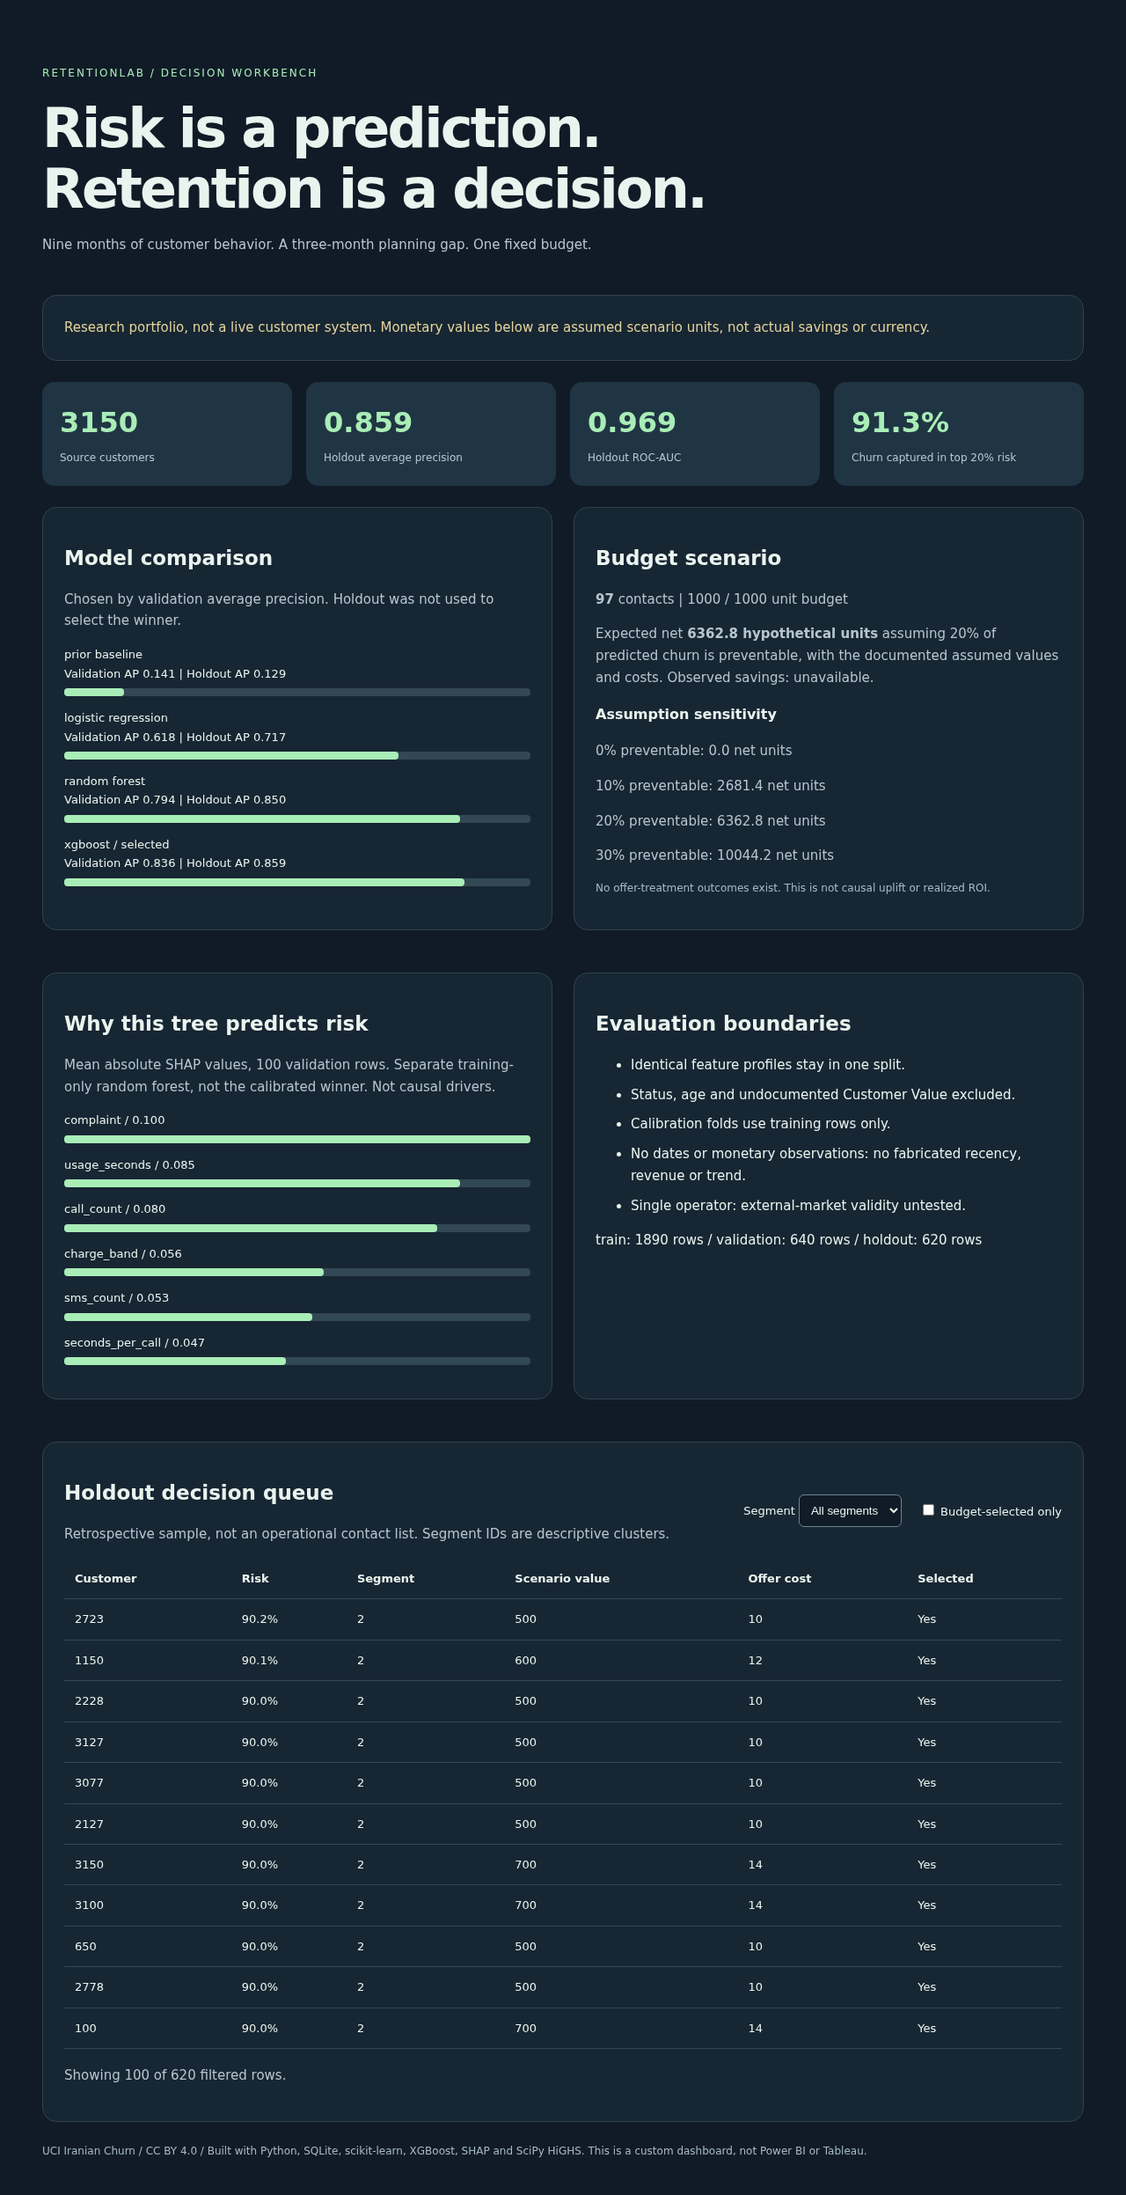
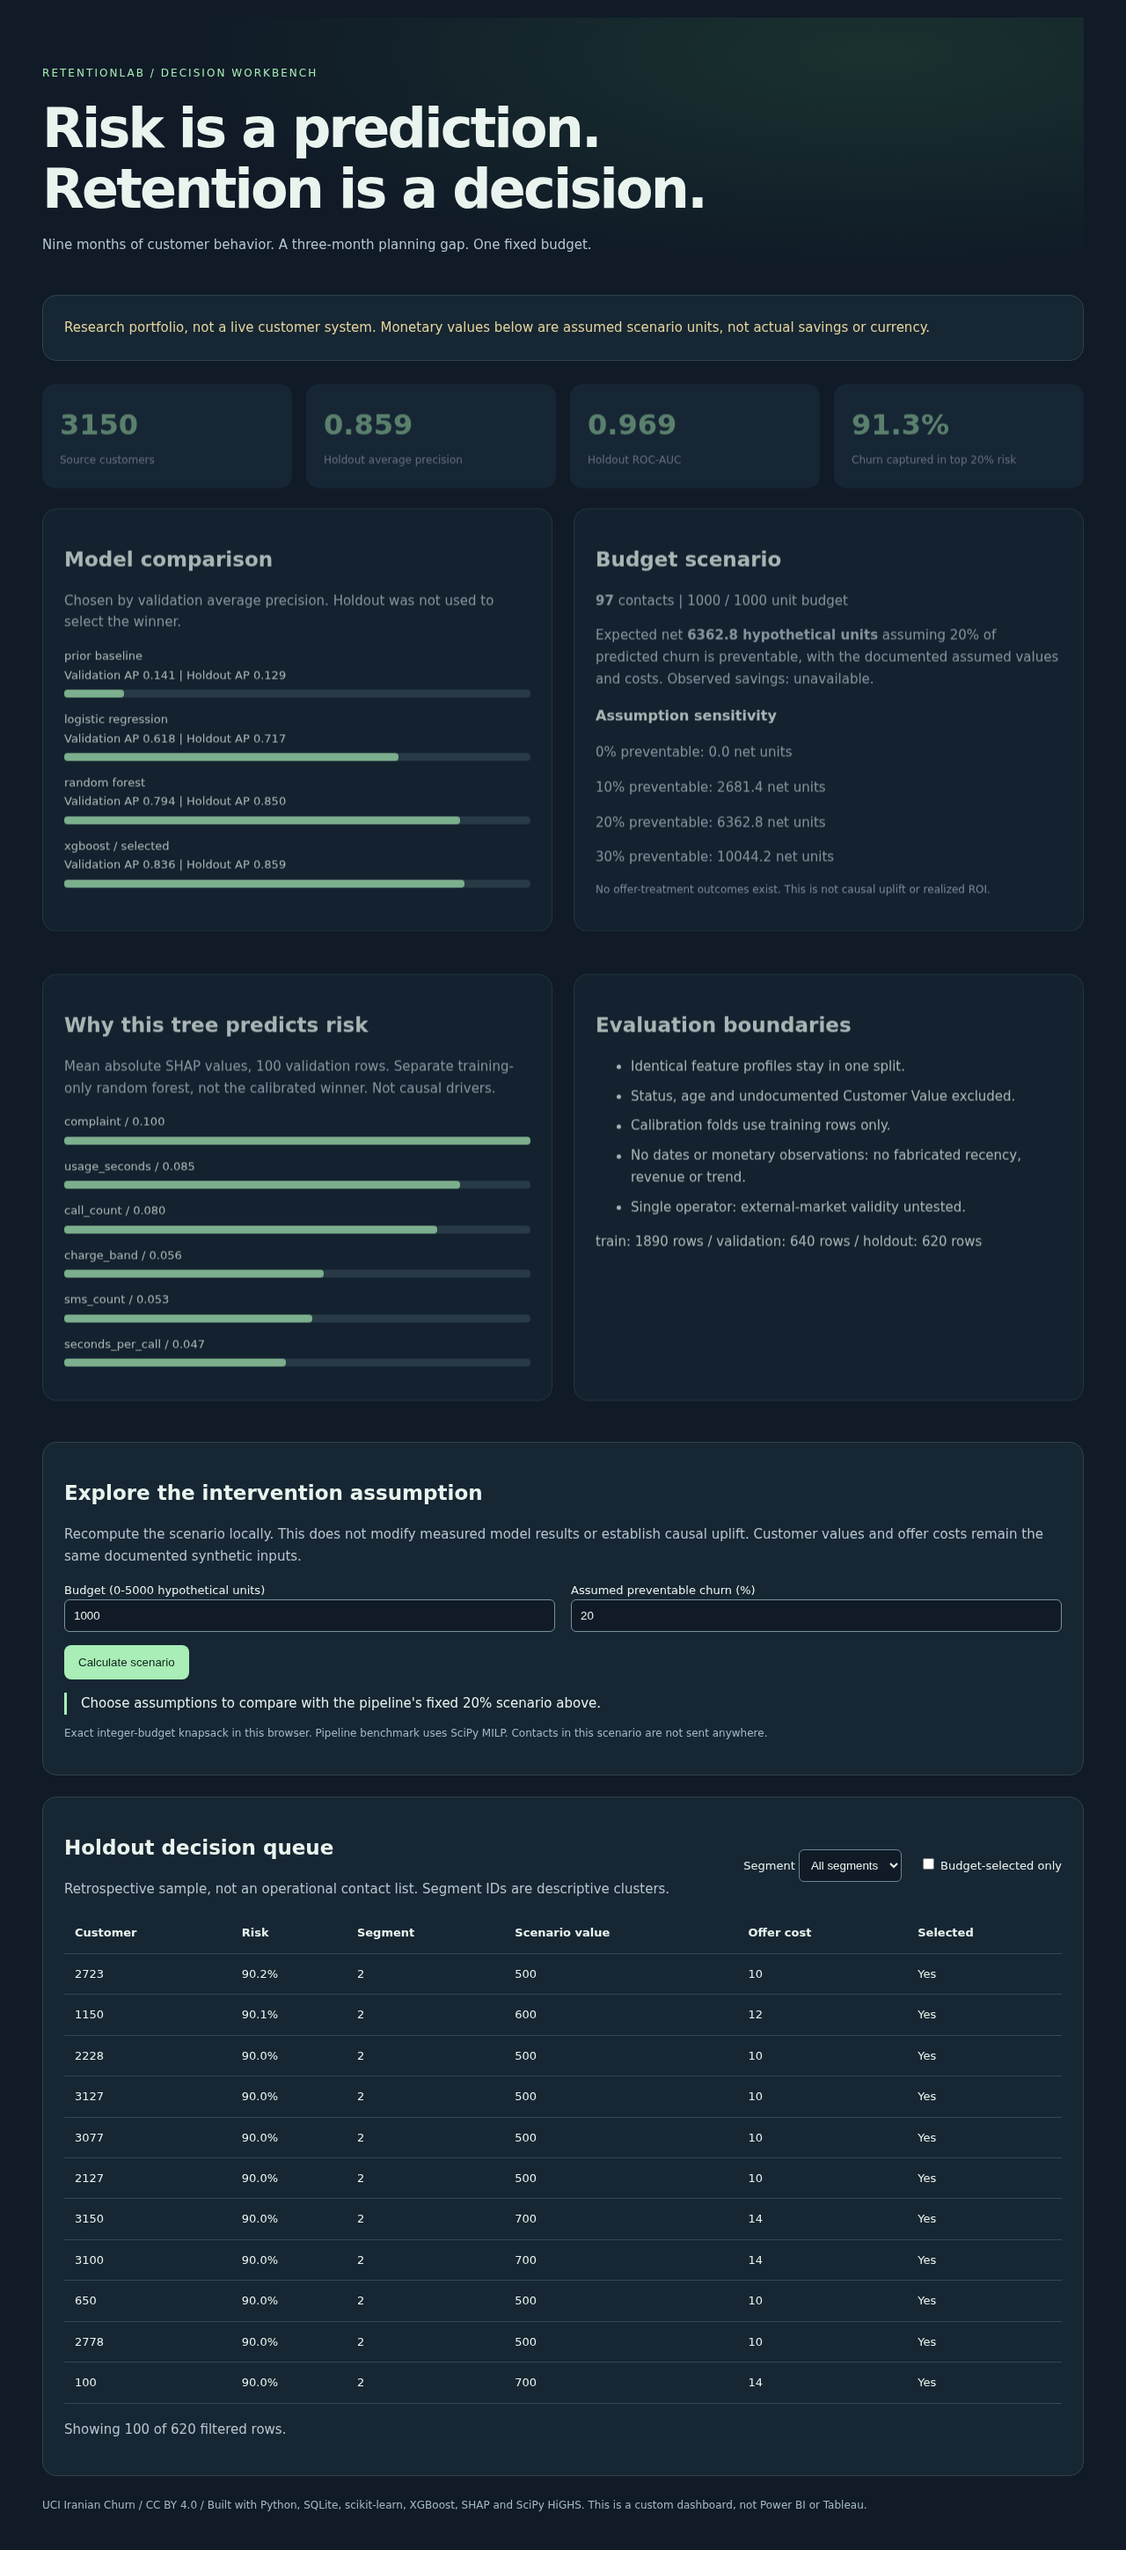
Add tested interactive retention scenario explorer

diff --git a/dashboard/app.js b/dashboard/app.js
@@ -1,1 +1,2 @@
-const fmt=(x,n=3)=>Number(x).toFixed(n);Promise.all([fetch('../artifacts/results.json').then(r=>r.json()),fetch('../artifacts/queue.json').then(r=>r.json())]).then(([r,rows])=>{const m=r.models[r.selected_model].holdout;document.querySelector('#kpis').innerHTML=[[r.rows,'Source customers'],[fmt(m.average_precision),'Holdout average precision'],[fmt(m.roc_auc),'Holdout ROC-AUC'],[(100*r.holdout_top_20_percent_churn_capture).toFixed(1)+'%','Churn captured in top 20% risk']].map(([v,t])=>`<div class="kpi"><strong>${v}</strong><span>${t}</span></div>`).join('');document.querySelector('#models').innerHTML=Object.entries(r.models).map(([n,v])=>`<div class="barrow">${n.replaceAll('_',' ')} ${n===r.selected_model?' / selected':''}<br>Validation AP ${fmt(v.validation.average_precision)} | Holdout AP ${fmt(v.holdout.average_precision)}<div><i style="width:${100*v.holdout.average_precision}%"></i></div></div>`).join('');const s=r.scenario;document.querySelector('#scenario').innerHTML=`<p><b>${s.selected}</b> contacts | ${s.spend} / ${s.budget} unit budget</p><p>Expected net <b>${fmt(s.expected_net_units,1)} hypothetical units</b> assuming ${(s.preventable_fraction_assumed*100)}% of predicted churn is preventable, with the documented assumed values and costs. Observed savings: unavailable.</p>`;document.querySelector('#sensitivity').innerHTML=s.sensitivity.map(x=>`<p>${x.preventable_fraction*100}% preventable: ${fmt(x.expected_net_units,1)} net units</p>`).join('');const max=r.shap[0].mean_abs_shap;document.querySelector('#shap').innerHTML=r.shap.slice(0,6).map(x=>`<div class="barrow">${x.feature} / ${fmt(x.mean_abs_shap)}<div><i style="width:${100*x.mean_abs_shap/max}%"></i></div></div>`).join('');document.querySelector('#splits').textContent=Object.entries(r.splits).map(([k,v])=>`${k}: ${v.rows} rows`).join(' / ');const select=document.querySelector('#segment');[...new Set(rows.map(x=>x.segment))].sort().forEach(x=>{const o=document.createElement('option');o.value=x;o.textContent='Segment '+x;select.append(o)});function render(){const filtered=rows.filter(x=>(select.value==='all'||String(x.segment)===select.value)&&(!document.querySelector('#selected').checked||x.selected));document.querySelector('#queue').innerHTML=filtered.slice(0,100).map(x=>`<tr><td>${x.customer_id}</td><td>${(100*x.risk).toFixed(1)}%</td><td>${x.segment}</td><td>${x.scenario_value}</td><td>${x.scenario_cost}</td><td>${x.selected?'Yes':'No'}</td></tr>`).join('');document.querySelector('#count').textContent=`Showing ${Math.min(100,filtered.length)} of ${filtered.length} filtered rows.`}select.onchange=render;document.querySelector('#selected').onchange=render;render()}).catch(()=>{document.querySelector('#kpis').textContent='Cannot load artifacts. Run the pipeline and serve the repository root with python -m http.server.'});
+import {solveScenario} from './scenario.js';
+const fmt=(x,n=3)=>Number(x).toFixed(n);Promise.all([fetch('../artifacts/results.json').then(r=>r.json()),fetch('../artifacts/queue.json').then(r=>r.json())]).then(([r,rows])=>{const m=r.models[r.selected_model].holdout;document.querySelector('#kpis').innerHTML=[[r.rows,'Source customers'],[fmt(m.average_precision),'Holdout average precision'],[fmt(m.roc_auc),'Holdout ROC-AUC'],[(100*r.holdout_top_20_percent_churn_capture).toFixed(1)+'%','Churn captured in top 20% risk']].map(([v,t])=>`<div class="kpi"><strong>${v}</strong><span>${t}</span></div>`).join('');document.querySelector('#models').innerHTML=Object.entries(r.models).map(([n,v])=>`<div class="barrow">${n.replaceAll('_',' ')} ${n===r.selected_model?' / selected':''}<br>Validation AP ${fmt(v.validation.average_precision)} | Holdout AP ${fmt(v.holdout.average_precision)}<div><i style="width:${100*v.holdout.average_precision}%"></i></div></div>`).join('');const s=r.scenario;document.querySelector('#scenario').innerHTML=`<p><b>${s.selected}</b> contacts | ${s.spend} / ${s.budget} unit budget</p><p>Expected net <b>${fmt(s.expected_net_units,1)} hypothetical units</b> assuming ${(s.preventable_fraction_assumed*100)}% of predicted churn is preventable, with the documented assumed values and costs. Observed savings: unavailable.</p>`;document.querySelector('#sensitivity').innerHTML=s.sensitivity.map(x=>`<p>${x.preventable_fraction*100}% preventable: ${fmt(x.expected_net_units,1)} net units</p>`).join('');const max=r.shap[0].mean_abs_shap;document.querySelector('#shap').innerHTML=r.shap.slice(0,6).map(x=>`<div class="barrow">${x.feature} / ${fmt(x.mean_abs_shap)}<div><i style="width:${100*x.mean_abs_shap/max}%"></i></div></div>`).join('');document.querySelector('#splits').textContent=Object.entries(r.splits).map(([k,v])=>`${k}: ${v.rows} rows`).join(' / ');const select=document.querySelector('#segment');[...new Set(rows.map(x=>x.segment))].sort().forEach(x=>{const o=document.createElement('option');o.value=x;o.textContent='Segment '+x;select.append(o)});document.querySelector('#scenario-form').onsubmit=event=>{event.preventDefault();const out=document.querySelector('#interactive-result');try{const b=Number(document.querySelector('#budget').value),p=Number(document.querySelector('#preventable').value)/100;const x=solveScenario(rows,b,p);out.textContent=`${x.selected.length} contacts; ${x.spend} of ${b} hypothetical units spent; ${fmt(x.net,1)} expected net units, assuming ${p*100}% preventable churn. Not observed savings.`;}catch(error){out.textContent=error.message}};function render(){const filtered=rows.filter(x=>(select.value==='all'||String(x.segment)===select.value)&&(!document.querySelector('#selected').checked||x.selected));document.querySelector('#queue').innerHTML=filtered.slice(0,100).map(x=>`<tr><td>${x.customer_id}</td><td>${(100*x.risk).toFixed(1)}%</td><td>${x.segment}</td><td>${x.scenario_value}</td><td>${x.scenario_cost}</td><td>${x.selected?'Yes':'No'}</td></tr>`).join('');document.querySelector('#count').textContent=`Showing ${Math.min(100,filtered.length)} of ${filtered.length} filtered rows.`}select.onchange=render;document.querySelector('#selected').onchange=render;render()}).catch(()=>{document.querySelector('#kpis').textContent='Cannot load artifacts. Run the pipeline and serve the repository root with python -m http.server.'});

diff --git a/dashboard/index.html b/dashboard/index.html
@@ -1,1 +1,1 @@
-<!doctype html><html lang="en"><meta charset="utf-8"><meta name="viewport" content="width=device-width,initial-scale=1"><title>RetentionLab | Budget-aware churn decisions</title><link rel="stylesheet" href="style.css"><body><main><header><span class="eyebrow">RETENTIONLAB / DECISION WORKBENCH</span><h1>Risk is a prediction.<br>Retention is a decision.</h1><p>Nine months of customer behavior. A three-month planning gap. One fixed budget.</p></header><section class="notice">Research portfolio, not a live customer system. Monetary values below are assumed scenario units, not actual savings or currency.</section><section class="kpis" id="kpis"></section><section class="grid"><article><h2>Model comparison</h2><p>Chosen by validation average precision. Holdout was not used to select the winner.</p><div id="models"></div></article><article><h2>Budget scenario</h2><div id="scenario"></div><h3>Assumption sensitivity</h3><div id="sensitivity"></div><p class="muted">No offer-treatment outcomes exist. This is not causal uplift or realized ROI.</p></article></section><section class="grid"><article><h2>Why this tree predicts risk</h2><p>Mean absolute SHAP values, 100 validation rows. Separate training-only random forest, not the calibrated winner. Not causal drivers.</p><div id="shap"></div></article><article><h2>Evaluation boundaries</h2><ul><li>Identical feature profiles stay in one split.</li><li>Status, age and undocumented Customer Value excluded.</li><li>Calibration folds use training rows only.</li><li>No dates or monetary observations: no fabricated recency, revenue or trend.</li><li>Single operator: external-market validity untested.</li></ul><div id="splits"></div></article></section><section><div class="tablehead"><div><h2>Holdout decision queue</h2><p>Retrospective sample, not an operational contact list. Segment IDs are descriptive clusters.</p></div><label>Segment <select id="segment"><option value="all">All segments</option></select></label><label><input type="checkbox" id="selected"> Budget-selected only</label></div><div class="scroll"><table><thead><tr><th>Customer</th><th>Risk</th><th>Segment</th><th>Scenario value</th><th>Offer cost</th><th>Selected</th></tr></thead><tbody id="queue"></tbody></table></div><p id="count"></p></section><footer>UCI Iranian Churn / CC BY 4.0 / Built with Python, SQLite, scikit-learn, XGBoost, SHAP and SciPy HiGHS. This is a custom dashboard, not Power BI or Tableau.</footer></main><script src="app.js"></script></body></html>
+<!doctype html><html lang="en"><meta charset="utf-8"><meta name="viewport" content="width=device-width,initial-scale=1"><title>RetentionLab | Budget-aware churn decisions</title><link rel="stylesheet" href="style.css"><body><main><header><span class="eyebrow">RETENTIONLAB / DECISION WORKBENCH</span><h1>Risk is a prediction.<br>Retention is a decision.</h1><p>Nine months of customer behavior. A three-month planning gap. One fixed budget.</p></header><section class="notice">Research portfolio, not a live customer system. Monetary values below are assumed scenario units, not actual savings or currency.</section><section class="kpis" id="kpis"></section><section class="grid"><article><h2>Model comparison</h2><p>Chosen by validation average precision. Holdout was not used to select the winner.</p><div id="models"></div></article><article><h2>Budget scenario</h2><div id="scenario"></div><h3>Assumption sensitivity</h3><div id="sensitivity"></div><p class="muted">No offer-treatment outcomes exist. This is not causal uplift or realized ROI.</p></article></section><section class="grid"><article><h2>Why this tree predicts risk</h2><p>Mean absolute SHAP values, 100 validation rows. Separate training-only random forest, not the calibrated winner. Not causal drivers.</p><div id="shap"></div></article><article><h2>Evaluation boundaries</h2><ul><li>Identical feature profiles stay in one split.</li><li>Status, age and undocumented Customer Value excluded.</li><li>Calibration folds use training rows only.</li><li>No dates or monetary observations: no fabricated recency, revenue or trend.</li><li>Single operator: external-market validity untested.</li></ul><div id="splits"></div></article></section><section><h2>Explore the intervention assumption</h2><p>Recompute the scenario locally. This does not modify measured model results or establish causal uplift. Customer values and offer costs remain the same documented synthetic inputs.</p><form id="scenario-form"><div class="controls"><label>Budget (0-5000 hypothetical units)<input id="budget" type="number" min="0" max="5000" step="1" value="1000" required></label><label>Assumed preventable churn (%)<input id="preventable" type="number" min="0" max="100" step="1" value="20" required></label></div><p><button class="action" type="submit">Calculate scenario</button></p></form><div id="interactive-result" class="scenario-result" role="status">Choose assumptions to compare with the pipeline's fixed 20% scenario above.</div><p class="muted">Exact integer-budget knapsack in this browser. Pipeline benchmark uses SciPy MILP. Contacts in this scenario are not sent anywhere.</p></section><section><div class="tablehead"><div><h2>Holdout decision queue</h2><p>Retrospective sample, not an operational contact list. Segment IDs are descriptive clusters.</p></div><label>Segment <select id="segment"><option value="all">All segments</option></select></label><label><input type="checkbox" id="selected"> Budget-selected only</label></div><div class="scroll"><table><thead><tr><th>Customer</th><th>Risk</th><th>Segment</th><th>Scenario value</th><th>Offer cost</th><th>Selected</th></tr></thead><tbody id="queue"></tbody></table></div><p id="count"></p></section><footer>UCI Iranian Churn / CC BY 4.0 / Built with Python, SQLite, scikit-learn, XGBoost, SHAP and SciPy HiGHS. This is a custom dashboard, not Power BI or Tableau.</footer></main><script type="module" src="app.js"></script></body></html>

diff --git a/dashboard/style.css b/dashboard/style.css
@@ -1,2 +1,4 @@
 *{box-sizing:border-box}body{margin:0;background:#101b27;color:#e9f4ee;font:15px/1.65 system-ui,sans-serif}main{max-width:1240px;margin:auto;padding:40px 28px}header{padding:30px 0}h1{font-size:clamp(32px,5vw,62px);line-height:1.12;letter-spacing:-.045em;margin:16px 0}h2{font-size:23px;line-height:1.3}h3{font-size:16px}.eyebrow{color:#a9edb7;font-size:12px;letter-spacing:.17em}p{color:#b6c6d1}article,section:not(.grid):not(.kpis){background:#172633;border:1px solid #30414e;border-radius:16px;padding:24px;margin-bottom:24px}.notice{color:#e4d49b}.kpis{display:grid;grid-template-columns:repeat(4,1fr);gap:16px;margin:24px 0}.kpi{background:#203543;border-radius:14px;padding:20px}.kpi strong{display:block;color:#a9edb7;font-size:32px}.kpi span{font-size:12px;color:#b6c6d1}.grid{display:grid;grid-template-columns:1fr 1fr;gap:24px;margin:24px 0}article{min-width:0}select{background:#101b27;color:#e9f4ee;padding:9px;border:1px solid #6b8796;border-radius:6px}button,input,select{accent-color:#a9edb7}label{font-size:13px}table{width:100%;border-collapse:collapse;font-size:13px}td,th{padding:12px;text-align:left;border-bottom:1px solid #354855;white-space:nowrap}.scroll{overflow-x:auto}.tablehead{display:flex;align-items:center;gap:20px;flex-wrap:wrap}.tablehead>div{flex:1;min-width:220px}.barrow{margin:14px 0;font-size:13px}.barrow>div{height:9px;background:#324854;border-radius:4px;margin-top:6px}.barrow i{display:block;height:9px;background:#a9edb7;border-radius:4px}.muted,footer{color:#a6b9c6;font-size:12px}li{margin:9px 0}@media(max-width:700px){main{padding:22px 16px}.grid{grid-template-columns:1fr}.kpis{grid-template-columns:1fr 1fr}.kpi{padding:14px}.kpi strong{font-size:25px}article,section:not(.grid):not(.kpis){padding:18px}header{padding:16px 0}}
 .scroll{max-height:560px;overflow:auto}th{position:sticky;top:0;background:#172633}
+header{position:relative;isolation:isolate}header::before{content:'';position:absolute;inset:-40px -28px;z-index:-1;background:radial-gradient(ellipse at 80% 12%,#24483880,transparent 58%);pointer-events:none}a{color:#a9edb7}.controls{display:grid;grid-template-columns:1fr 1fr;gap:18px}.controls input{width:100%;padding:10px;background:#101b27;color:#e9f4ee;border:1px solid #78929f;border-radius:6px}.action{background:#a9edb7;color:#10251b;border:0;border-radius:8px;padding:12px 16px;cursor:pointer}.scenario-result{border-left:3px solid #a9edb7;padding-left:16px}button:focus-visible,a:focus-visible,input:focus-visible,select:focus-visible{outline:3px solid #e9da7c;outline-offset:3px}@media(prefers-reduced-motion:no-preference){article,.kpi{animation:appear .35s ease-out both}@keyframes appear{from{opacity:0;transform:translateY(5px)}to{opacity:1;transform:none}}}@media(max-width:500px){.controls{grid-template-columns:1fr}}
+header::before{inset:-20px 0}.controls label{min-width:0}.controls input{min-width:0}

diff --git a/dashboard/scenario.js b/dashboard/scenario.js
@@ -1,0 +1,19 @@
+/* Exact integer-cost knapsack for a transparent browser-only scenario.
+   This does not replace the pipeline's SciPy MILP or estimate treatment effects. */
+export function solveScenario(rows, budget, preventable) {
+  if (!Number.isInteger(budget) || budget < 0 || budget > 5000 || !Number.isFinite(preventable) || preventable < 0 || preventable > 1) throw new Error('Use a whole-unit budget from 0 to 5000 and a preventable fraction from 0 to 1.');
+  const dp = new Float64Array(budget + 1);
+  const choices = Array.from({length:rows.length},()=>new Uint8Array(budget + 1));
+  rows.forEach((row,index)=>{
+    const cost=row.scenario_cost, net=row.risk*preventable*row.scenario_value-cost;
+    if(!Number.isInteger(cost)||cost<=0||!Number.isFinite(net))throw new Error('Invalid scenario row.');
+    if(net<=0)return;
+    for(let b=budget;b>=cost;b--){
+      const candidate=dp[b-cost]+net;
+      if(candidate>dp[b]+1e-10){dp[b]=candidate;choices[index][b]=1;}
+    }
+  });
+  let remaining=budget;const selected=[];
+  for(let i=rows.length-1;i>=0;i--){if(choices[i][remaining]){selected.push(rows[i].customer_id);remaining-=rows[i].scenario_cost;}}
+  return {selected,spend:budget-remaining,net:dp[budget]};
+}

diff --git a/docs/design-notes.md b/docs/design-notes.md
@@ -1,0 +1,15 @@
+# Dashboard design choices
+
+Reviewed user-suggested references on 2026-10-23:
+
+- https://backgrounds.supply: a paid background collection. No purchase, download
+  or licensed asset reuse. The dashboard uses original CSS gradients instead.
+- https://iconly.design: icon discovery reference. No external icon assets copied.
+- https://60fps.design: interaction-detail reference. Used as inspiration for
+  visible state, focus and restrained motion, not as copied code or imagery.
+
+Analytics content takes priority: readable numbers, visible caveats, a small
+color palette, mobile stacking, labeled controls and keyboard focus. No CDN
+fonts or third-party trackers are required. Motion respects reduced-motion.
+Adding a library is not itself evidence of better quality; the existing CPU
+data libraries do the substantive work.

diff --git a/README.md b/README.md
@@ -97,3 +97,10 @@ workspace, start the local server as above, set `NODE_PATH` to that workspace's
 `node_modules`, then run `node tests/browser/smoke.cjs`. `CHROME_BIN` can override
 the system Chrome path. The smoke checks both viewport sizes and dashboard
 filters; screenshots are written to `/tmp`.
+
+The dashboard also includes a local budget/preventable-churn scenario explorer.
+Its exact integer-cost knapsack matches the pipeline MILP at the fixed benchmark
+and selects no one when the assumed effect is zero. Test with
+`node --test tests/browser/scenario.cjs`; browser interaction regression is
+`node tests/browser/scenario-ui.cjs`. The explorer does not change model metrics
+or contact anyone. Design choices: [notes](docs/design-notes.md).
